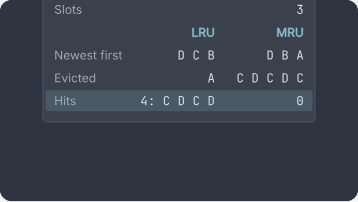
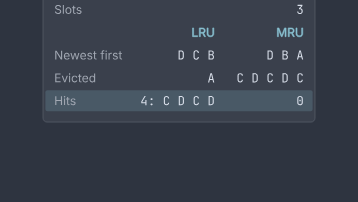
Retake the LRU/MRU phone screenshots under the redesigned player
The contact sheets are byte-identical after merging main; the phone
close-ups show the same card and counts with the new player's pixels.

Claude-Session: https://claude.ai/code/session_01N4DAa9nFSeTseNAn2EjSby

Changed region(s): [[0.0, 0.9505, 1.0, 1.0], [0.9832, 0.0, 1.0, 0.0297], [0.0, 0.0, 0.0307, 0.0297]]

diff --git a/docs/evidence/lru-mru-tutorial/README.md b/docs/evidence/lru-mru-tutorial/README.md
@@ -1,6 +1,6 @@
 # LRU/MRU tutorial explainer: resting pictures
 
-These images come from `scenes/tutorial/lru-mru/scene.ts` at commit `a37f2a3d14371e497ec40d217ea6cf4c81dfa45a`, rendered by the production player. The scene shows both policies in one card with an LRU and an MRU column.
+The contact sheets come from `scenes/tutorial/lru-mru/scene.ts` at commit `a37f2a3d14371e497ec40d217ea6cf4c81dfa45a` and are unchanged since. The phone screenshots were retaken after merging the player redesign (#59, #65) at commit `777577a`; the step bar and card player changed their pixels, not what the close-ups show. The scene shows both policies in one card with an LRU and an MRU column.
 
 | File | What it shows | Command |
 | --- | --- | --- |
@@ -9,7 +9,7 @@ These images come from `scenes/tutorial/lru-mru/scene.ts` at commit `a37f2a3d143
 | [`phone-loop-rest-390.png`](phone-loop-rest-390.png) | Step 3 of the loop case on a 390 px page | `npm run rayner -- review scenes/tutorial/lru-mru/scene.ts`, file `0/rest.390.png` |
 | [`phone-reuse-verdict-390.png`](phone-reuse-verdict-390.png) | Step 4 of the C D C D case on a 390 px page | the same review, file `1/verdict.390.png` |
 
-`rayner review` opened both cases at 390 and 1180 px: 16 step-width checks, one phone view per step, no console errors and no runtime connections (`sourceHash` `a5961f2b…`, `artifactHash` `1334fac2…`). `rayner check` reports no labels under 12 px in either case.
+`rayner review` opened both cases at 390 and 1180 px: 16 step-width checks, one phone view per step, no console errors and no runtime connections (`sourceHash` `a5961f2b…`, `artifactHash` `02f680a6…`). `rayner check` reports no labels under 12 px in either case.
 
 The values on the card are tested separately: `test/explain-tutorial.test.ts` compares each case's card with the model and runs the model against Wikipedia's worked examples.
 
